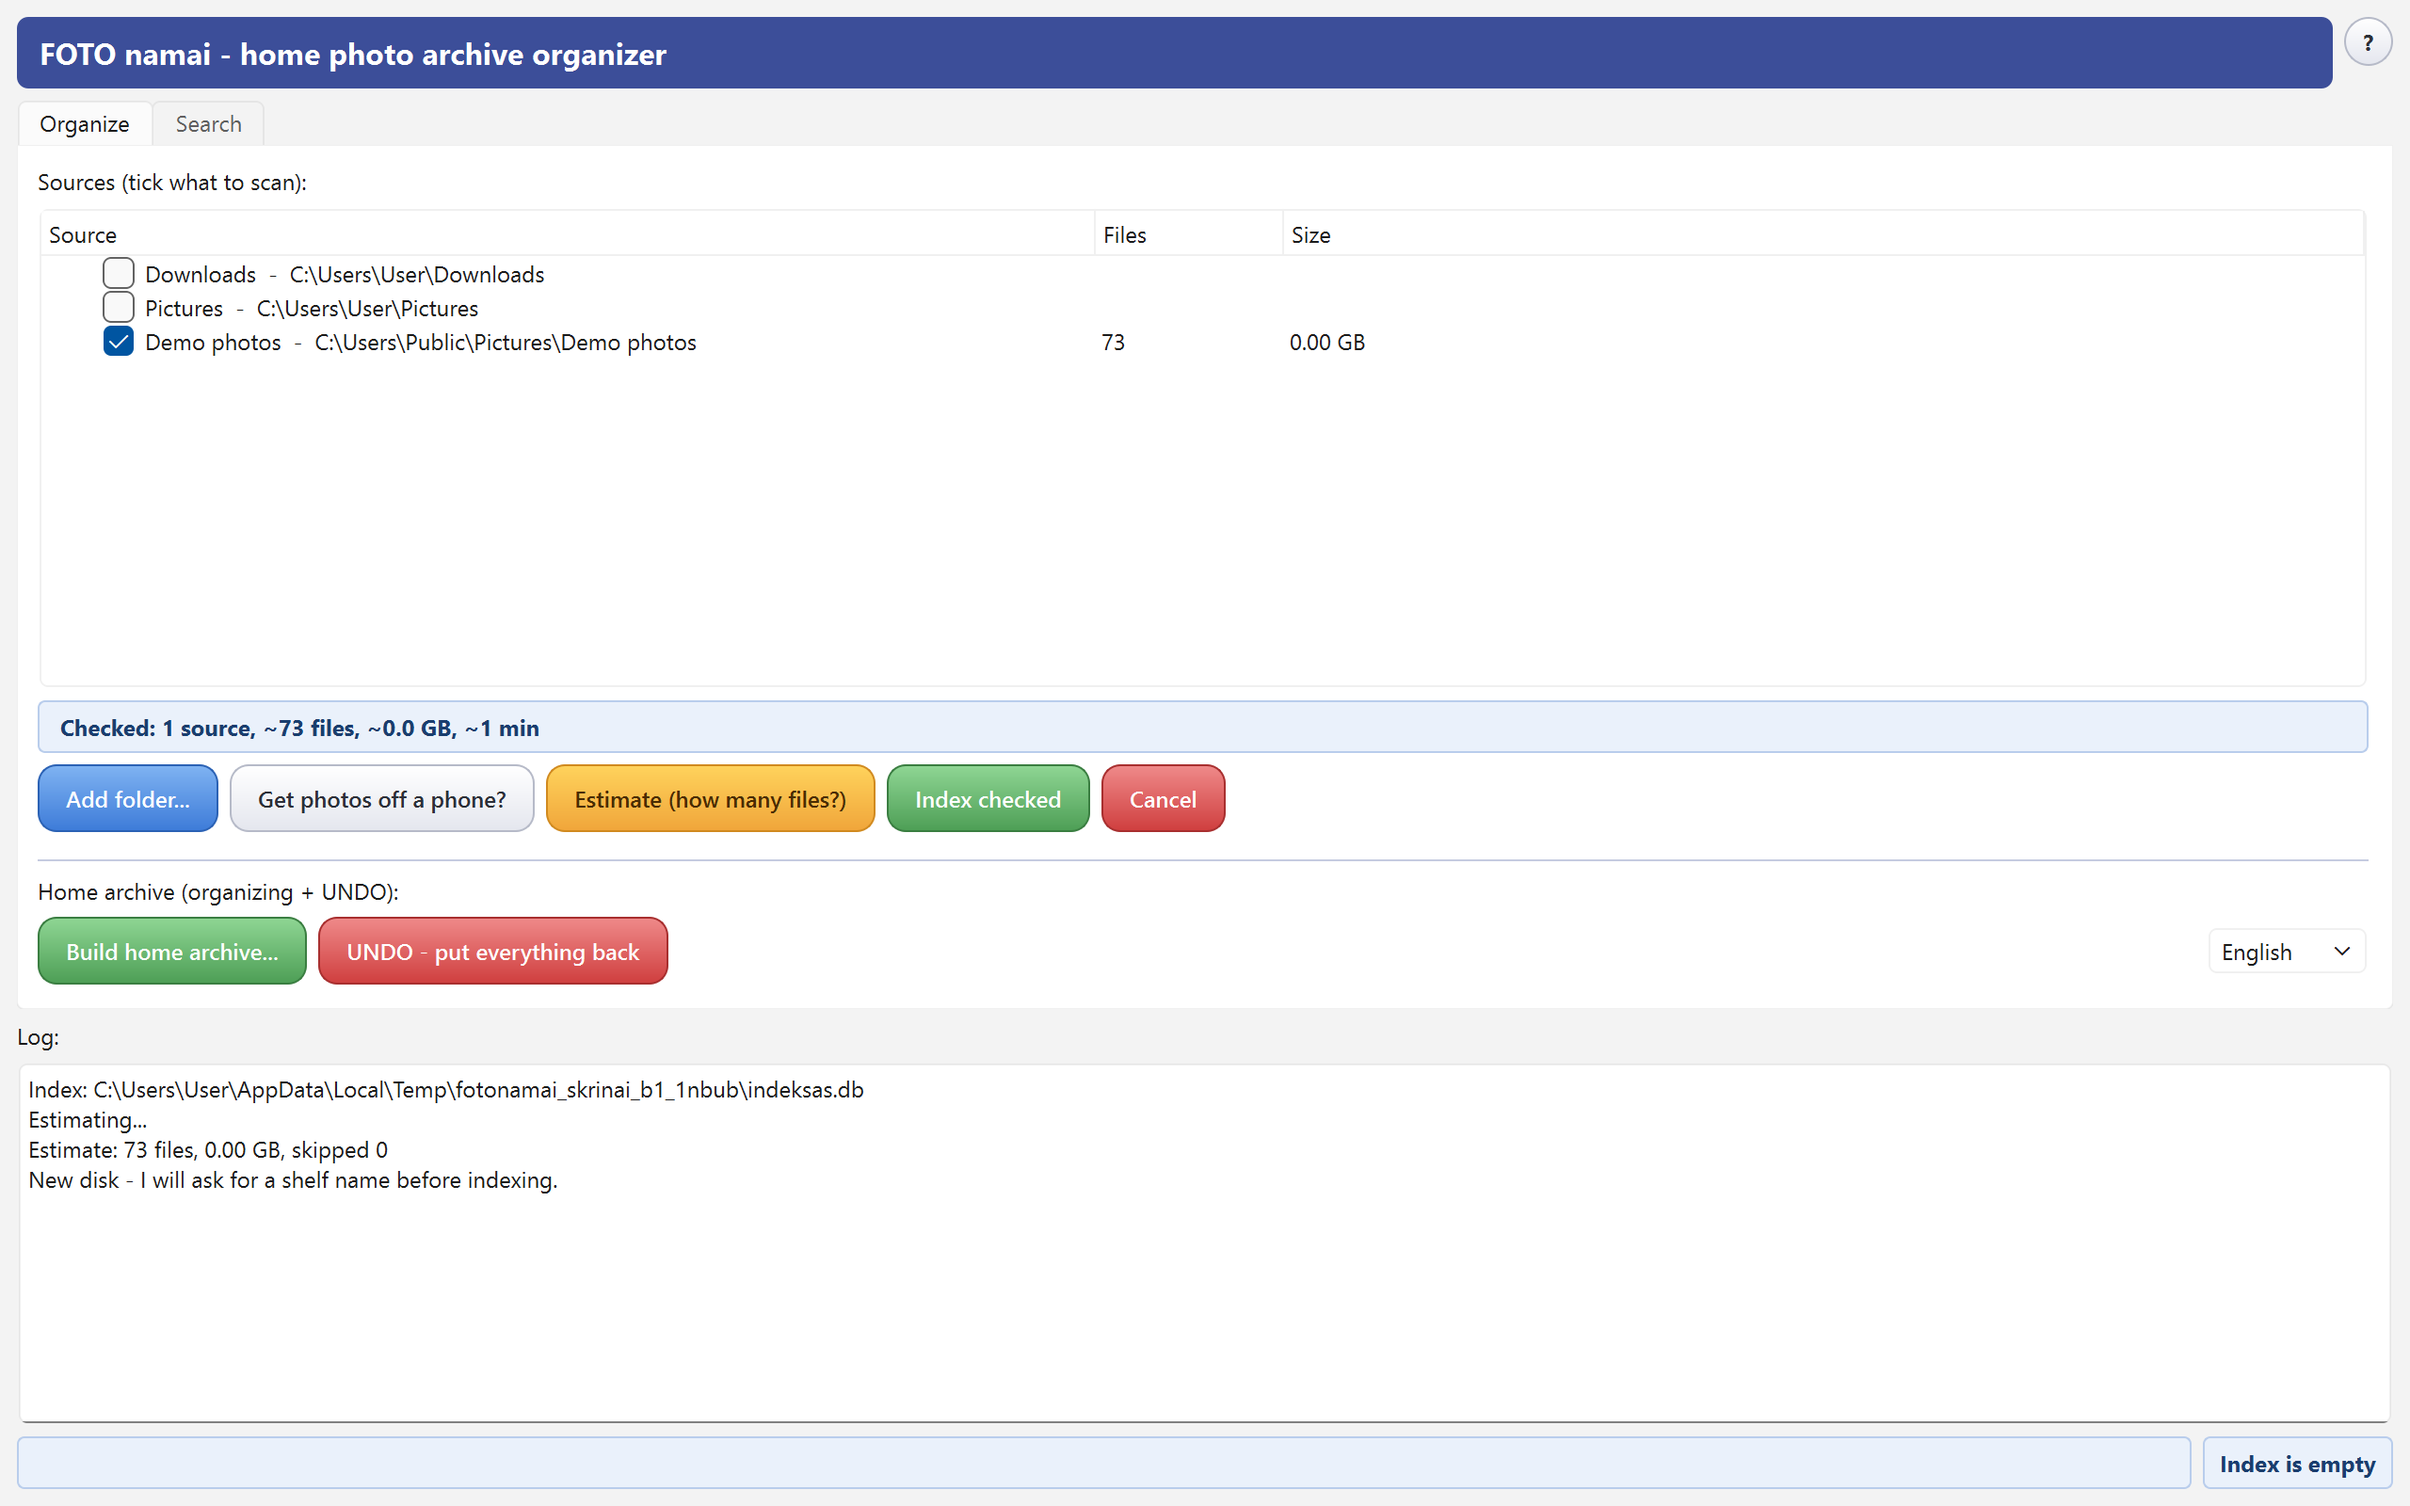
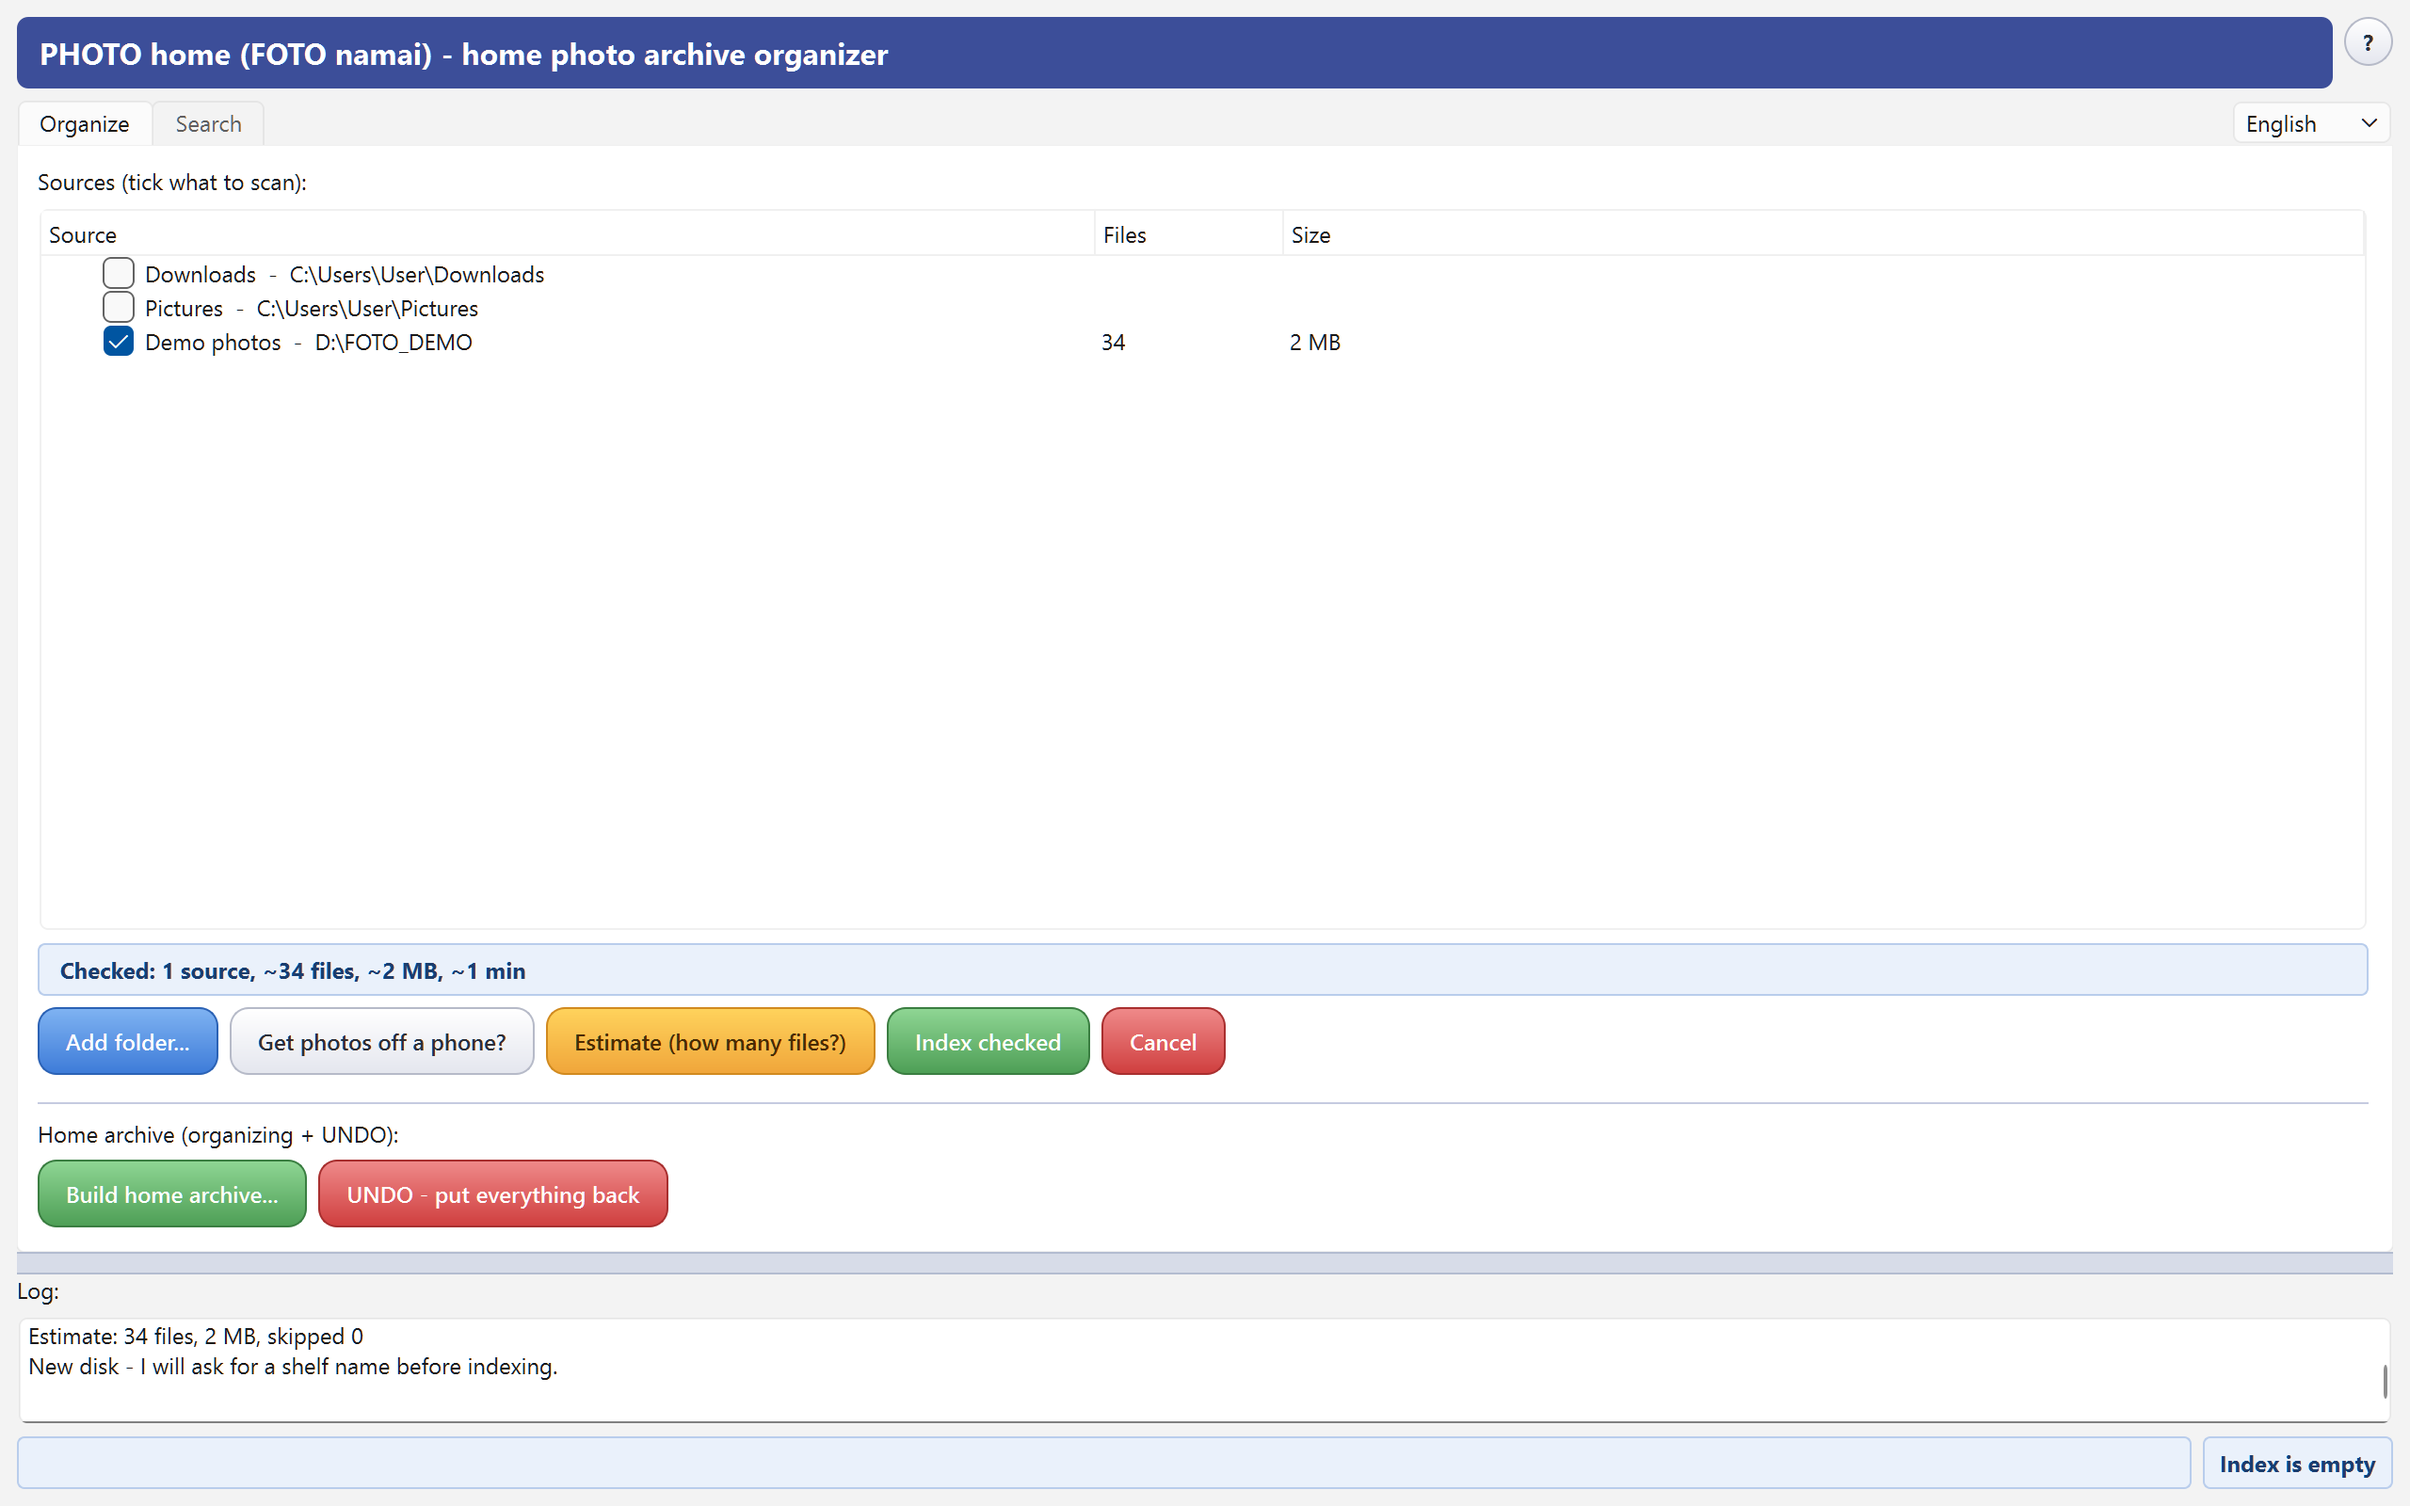
Live-round fixes + real screenshots: X-ray save dialog defaults to Documents, 'Ask AI' button translated (new t()-key guard check), README gallery from neutral demo data (D:\FOTO_DEMO)

diff --git a/foto_namai/_patikros/patikra_t_raktai.py b/foto_namai/_patikros/patikra_t_raktai.py
@@ -1,0 +1,59 @@
+"""t() raktu sargyba (KLIURKA 28 pamoka, 2026-08-29): kiekvienas kode
+kvieciamas t("...") raktas PRIVALO tureti EN zodyno irasa - kitaip EN
+rezime vartotojas mato lietuviska teksta (mygtukas "Klausk DI" vietoj
+"Ask AI" redaktoriu dialoge, Roberto gyvas radinys demo rate).
+
+Metodas - AST, ne regex: ast automatiskai sujungia gretimas string
+literalas, tad pagaunami ir daugiaeiliai raktai.
+"""
+
+import ast
+import sys
+from pathlib import Path
+
+ROOT = Path(__file__).resolve().parent.parent
+sys.path.insert(0, str(ROOT))
+
+# Raktai, kuriems vertimo TYCIA nera (LT tekstas sutampa su EN).
+# Pildyti tik samoningai - kiekvienas irasas cia reiskia "perziurejau,
+# tai ne trukstamas vertimas".
+ISIMTYS = set()
+
+
+def surinkti_raktus():
+    """Visi t("...") kvietimai su konstantiniu pirmu argumentu."""
+    raktai = {}   # raktas -> pirma rasta vieta (failas:eilute)
+    for p in sorted(ROOT.glob("*.py")):
+        medis = ast.parse(p.read_text(encoding="utf-8"), filename=p.name)
+        for node in ast.walk(medis):
+            if (isinstance(node, ast.Call)
+                    and isinstance(node.func, ast.Name)
+                    and node.func.id == "t" and node.args
+                    and isinstance(node.args[0], ast.Constant)
+                    and isinstance(node.args[0].value, str)):
+                raktai.setdefault(
+                    node.args[0].value, "%s:%d" % (p.name, node.lineno))
+    return raktai
+
+
+def main():
+    import kalba
+    raktai = surinkti_raktus()
+    if len(raktai) < 50:
+        print("ITARTINA: rasta tik %d t() raktu - AST rinkimas suluzo?"
+              % len(raktai))
+        print("PATIKRA: BLOGAI")
+        sys.exit(1)
+    bedos = [(r, vieta) for r, vieta in sorted(raktai.items())
+             if r not in kalba._EN and r not in ISIMTYS]
+    if bedos:
+        print("RAKTAI BE EN VERTIMO (%d):" % len(bedos))
+        for r, vieta in bedos[:20]:
+            print("  %s  <- %r" % (vieta, r[:60]))
+        print("PATIKRA: BLOGAI")
+        sys.exit(1)
+    print("PATIKRA: OK (visi %d t() raktai turi EN vertima)" % len(raktai))
+
+
+if __name__ == "__main__":
+    main()

diff --git a/foto_namai/gui_langas.py b/foto_namai/gui_langas.py
@@ -18,7 +18,7 @@ import sys
 from datetime import date
 from pathlib import Path
 
-from PyQt6.QtCore import QSize, Qt, QThread, QTimer
+from PyQt6.QtCore import QSize, QStandardPaths, Qt, QThread, QTimer
 from PyQt6.QtGui import QColor, QFont, QIcon, QPainter, QPixmap
 from PyQt6.QtWidgets import (QApplication, QCheckBox, QComboBox, QDialog,
                              QDialogButtonBox, QFileDialog, QFrame,
@@ -1363,8 +1363,15 @@ class MainWindow(QMainWindow):
     def _rentgena_saugoti(self, tekstas):
         """Rentgeno .md issaugojimas ten, kur zmogus pasirinks
         (dalinamasis - r/DataHoarder gyvena stat skrinais)."""
+        # KLIURKA 27 (Roberto gyvas ratas 2026-08-29): vien failo vardas
+        # be katalogo dialoga atidarydavo darbo kataloge (exe atveju -
+        # programos viduriuose). Numatytoji vieta - Documents.
+        dok = QStandardPaths.writableLocation(
+            QStandardPaths.StandardLocation.DocumentsLocation) \
+            or str(Path.home())
         kelias, _ = QFileDialog.getSaveFileName(
-            self, t("Issaugoti ataskaita..."), "KAS_TAVO_ARCHYVE.md",
+            self, t("Issaugoti ataskaita..."),
+            str(Path(dok) / "KAS_TAVO_ARCHYVE.md"),
             "Markdown (*.md)")
         if not kelias:
             return

diff --git a/foto_namai/kalba.py b/foto_namai/kalba.py
@@ -177,6 +177,9 @@ _EN = {
     # "Klausk DI" (Roberto ideja 2026-08-08: claude.ai, ne "bet kuris";
     # pats promptas - VISADA anglu k., kodo konstanta, ne zodyno irasas)
     "Neradote atsakymo? Klauskite DI": "No answer here? Ask the AI",
+    # KLIURKA 28 (Roberto gyvas demo ratas 2026-08-29): mygtukas
+    # "Klausk DI" redaktoriu dialoge EN rezime rodydavo lietuviska rakta
+    "Klausk DI": "Ask AI",
     "Kas ivyks paspaudus OK:\n\n"
     "1. Atsidarys interneto narsykle su DI padejejo\n"
     "   claude.ai puslapiu. Zinutes laukelyje jau bus\n"

diff --git a/README.md b/README.md
@@ -66,6 +66,13 @@ resolves dates and builds an index (one SQLite file). Search works
 immediately: by date, type, event label, camera or file name, with a
 thumbnail grid; double-click opens the file in Explorer.
 
+Every indexing run ends with the **Archive X-ray** — what you have,
+where the dates come from, and your line in time:
+
+![Archive X-ray](docs/screenshots/archive-xray.png)
+
+![Search with thumbnail grid](docs/screenshots/search-grid.png)
+
 **Tier B — the move (only when you press the button).** The program
 analyzes the index and proposes a clean structure — `Year\Month` for
 everything it is sure about, `2015\06 Midsummer` where a folder name
@@ -76,6 +83,8 @@ newer versions keep refining it in place. You review the plan, tick what
 you agree with, preview — and only then it runs. The archive root gets
 two human-readable files: `KAIP_SUTVARKYTA.md` (what rules were applied)
 and `UNDO_ZURNALAS.md` (what came from where).
+
+![Home archive proposal](docs/screenshots/proposal-dialog.png)
 
 ## Features
 
